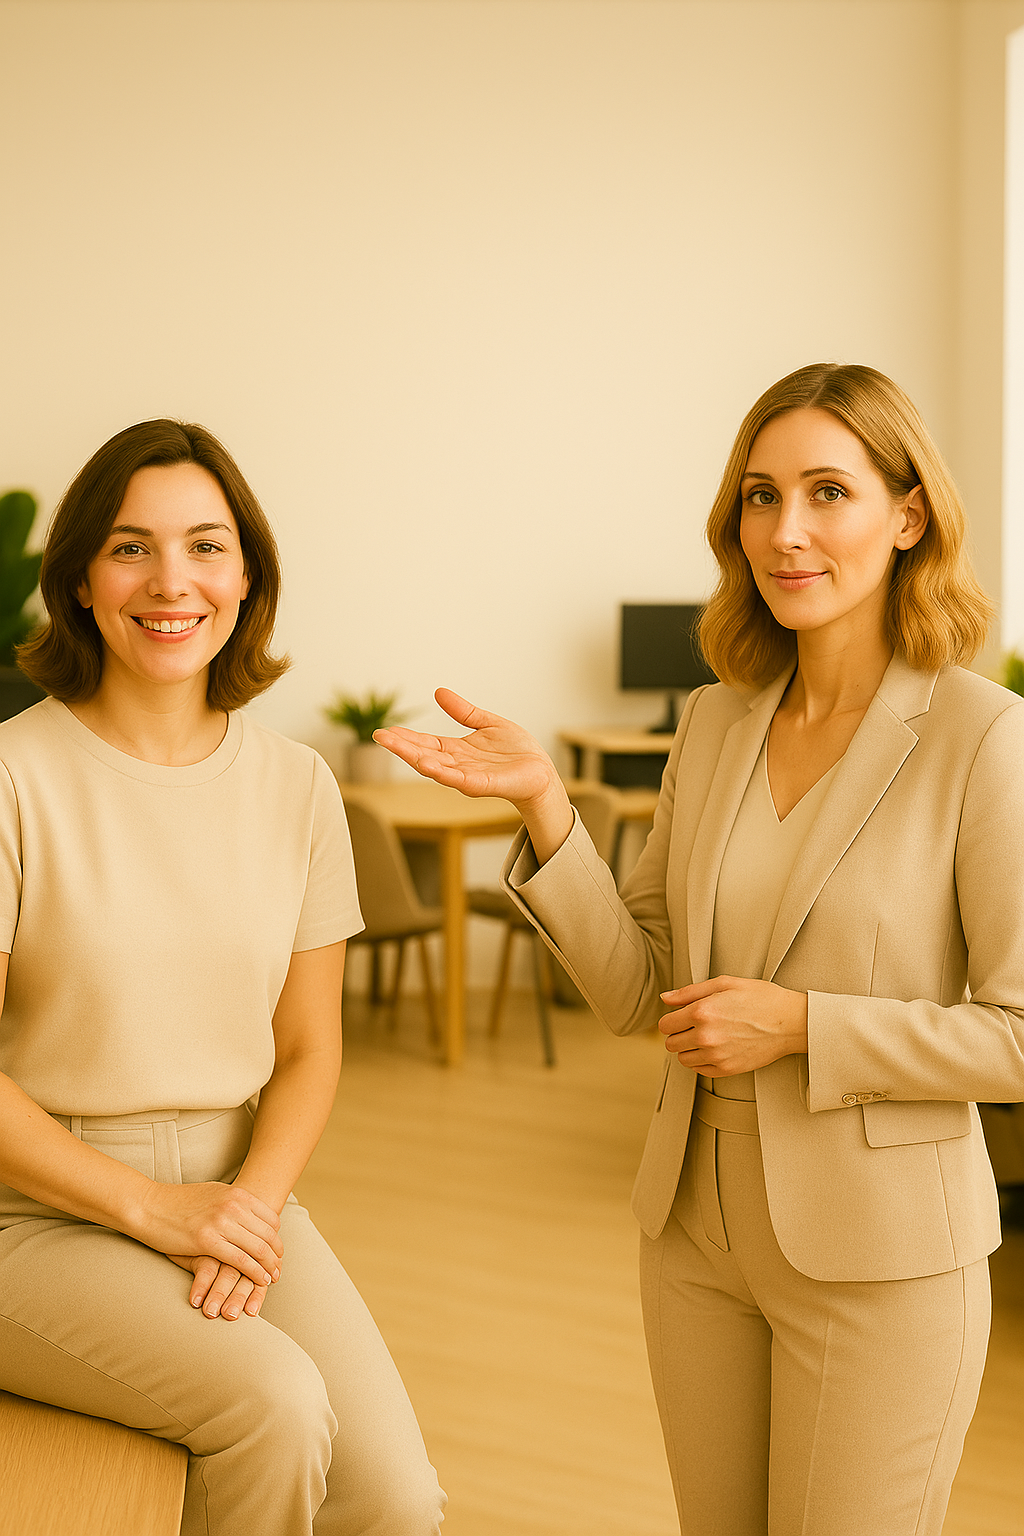
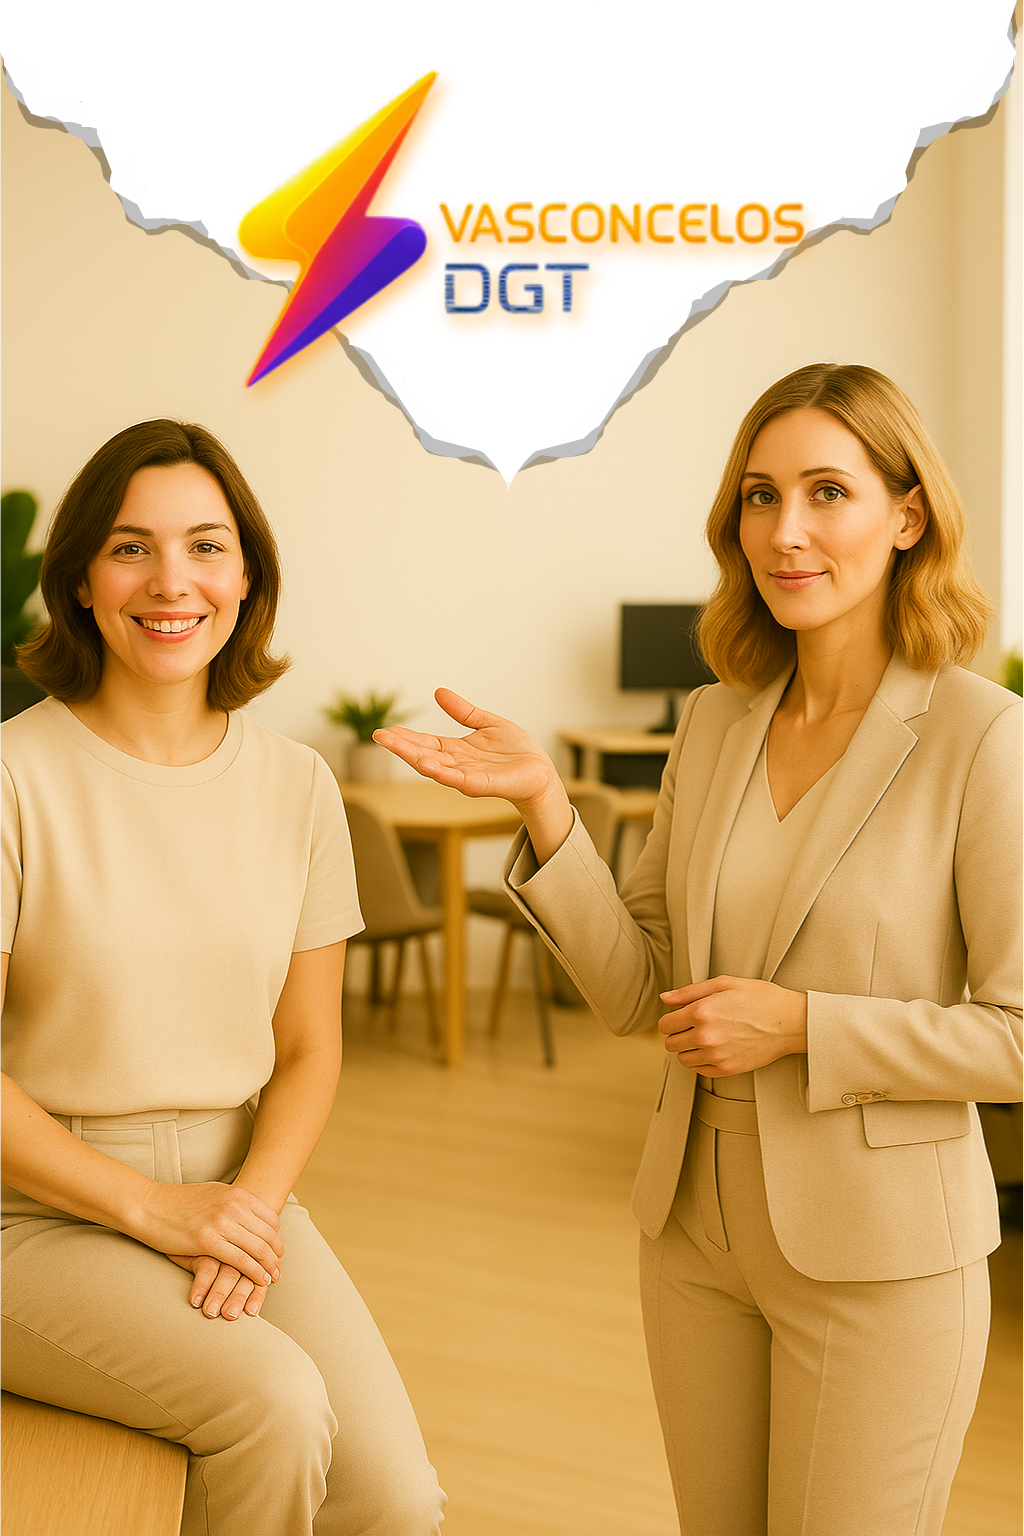
finalizando estetica, add imgs e otimizando texto. fim v1, aguardando aprovação

diff --git a/index.html b/index.html
@@ -12,7 +12,7 @@
   <meta property="og:url" content="https://your-domain.com" />
   <meta property="og:type" content="website" />
   <title>Guia Gratuito - Clareza e Leveza em 21 Dias</title>
-  <link rel="icon" type="image/png" href="https://your-domain.com/favicon.png" />
+  <link rel="icon" type="image/png" href="img/logo.png" />
   <link href="https://fonts.googleapis.com/css2?family=Inter:wght@400;600;700&family=Playfair+Display:wght@500;600;700&display=swap" rel="stylesheet" />
   <link href="https://unpkg.com/aos@2.3.1/dist/aos.css" rel="stylesheet" />
   <script src="https://code.iconify.design/iconify-icon/1.0.8/iconify-icon.min.js" defer></script>
@@ -32,18 +32,23 @@
     }
 
     /* Hero Section */
-    .hero-section {
-      background: linear-gradient(135deg, #667eea 0%, #764ba2 100%);
-      min-height: 100vh;
-      display: flex;
-      flex-direction: column;
-      justify-content: center;
-      align-items: center;
-      text-align: center;
-      color: white;
-      padding: 2rem;
-      position: relative;
-    }
+.hero-section {
+  background-image: url('img/cap.png'); 
+  background-size: cover; /* Faz a imagem preencher toda a área */
+  background-position: center; /* Centraliza a imagem */
+  background-repeat: no-repeat; /* Evita repetições */
+  min-height: 100vh;
+  width: 100vw; /* Garante que ocupe toda a largura da tela */
+  display: flex;
+  flex-direction: column;
+  justify-content: flex-end;
+  align-items: center;
+  text-align: center;
+  color: white;
+  padding: 2rem;
+  position: relative;
+}
+
 
     .hero-content h1 {
       font-family: 'Playfair Display', serif;
@@ -60,7 +65,7 @@
     }
 
     .cta-button {
-      background: linear-gradient(45deg, #ff6b6b, #ee5a24);
+      background: linear-gradient(45deg, #fa9f08, #ee5a24);
       color: white;
       border: none;
       padding: 1rem 2rem;
@@ -135,13 +140,15 @@
     }
 
     .urgency-note {
+      
       background: #fff3cd;
       border: 1px solid #ffeaa7;
       border-radius: 8px;
       padding: 1rem;
-      margin-bottom: 2rem;
+      margin-bottom: 1rem;
       display: flex;
       align-items: center;
+      justify-content: center;
       gap: 0.5rem;
       color: #856404;
     }
@@ -222,7 +229,7 @@
     }
 
     .highlight {
-      color: #ff6b6b;
+      color: #fa9f08;
       font-weight: 700;
     }
 
@@ -363,7 +370,7 @@
     .benefit-card iconify-icon {
       font-size: 3rem;
       margin-bottom: 1rem;
-      color: #ff6b6b;
+      color: #fa9f08;
     }
 
     .benefit-card p {
@@ -582,7 +589,7 @@
 
     .guarantee-card iconify-icon, .bonus-card iconify-icon {
       font-size: 3rem;
-      color: #ff6b6b;
+      color: #fa9f08;
       margin-bottom: 1rem;
     }
 
@@ -655,7 +662,7 @@
 
     .countdown {
       font-size: 1.2rem;
-      color: #ff6b6b;
+      color: #fa9f08;
       margin-bottom: 1rem;
       display: flex;
       align-items: center;
@@ -801,7 +808,7 @@
       bottom: 0;
       left: 0;
       right: 0;
-      background: linear-gradient(45deg, #ff6b6b, #ee5a24);
+      background: linear-gradient(45deg, #fa9f08, #ee5a24);
       color: white;
       padding: 1rem;
       display: none;
@@ -826,7 +833,7 @@
       position: fixed;
       top: 20px;
       right: 20px;
-      background: #ff6b6b;
+      background: #fa9f08;
       color: white;
       padding: 0.5rem 1rem;
       border-radius: 20px;
@@ -914,36 +921,34 @@
 </head>
 
 <body>
-  <!-- Hero Section -->
-  <section class="hero-section" role="banner" id="hero-section" data-aos="fade-up">
-    <div class="hero-content">
-      <h1>"Em 21 dias, ajudei 3.215 mulheres a recuperarem autoestima e energia."</h1>
-      <p>Descubra como em apenas 5 minutos por dia.</p>
-      <button class="cta-button" aria-label="Baixar Guia Agora" onclick="scrollToForm()">
-        <iconify-icon icon="lucide:download"></iconify-icon>
-        Baixar Guia Agora
-      </button>
-      <span class="delivery-note">Envio imediato no seu e-mail</span>
-    </div>
-    <div class="scroll-down" onclick="scrollToSection('form-section')">
-      <iconify-icon icon="lucide:chevron-down"></iconify-icon>
-      <p>Rolar para baixo</p>
-    </div>
-  </section>
+ <!-- Hero Section -->
+<section class="hero-section" role="banner" id="hero-section" data-aos="fade-up" style="margin-bottom: 0;">
+  <div class="hero-content">
+    <h1>Você merece dias mais produtivos e leves. Que tal começar agora?</h1>
+    <button class="cta-button" aria-label="Baixar Guia Agora" onclick="scrollToForm()">
+      <iconify-icon icon="lucide:download"></iconify-icon>
+      Baixar Guia Agora
+    </button>
+    <span class="delivery-note">Envio imediato no seu e-mail</span>
+  </div>
+  
+</section>
+
+<!-- Separador SVG -->
+
+ 
+
 
   <!-- Separator SVG -->
-  <svg class="section-divider" viewBox="0 0 1440 100" preserveAspectRatio="none">
-    <path fill="#FFF" d="M0,100 C360,0 1080,0 1440,100 L1440,100 L0,100 Z"></path>
-  </svg>
+
 
   <!-- Form Section -->
   <section class="form-section" role="region" aria-labelledby="form-heading" id="form-section" data-aos="fade-up-right">
     <div class="form-wrapper">
-      <h2>5 minutos por dia. 21 dias. Uma nova versão sua.</h2>
+      <h2>Descubra o primeiro passo para transformar seus dias.</h2>
       <p>Preencha o formulário abaixo e receba o guia gratuito diretamente no seu e-mail.</p>
       <div class="urgency-note">
-        <iconify-icon icon="lucide:alert-triangle"></iconify-icon>
-        <p>⚠ Esse formulário ficará disponível apenas nas próximas 48h.</p>
+        <span>⚠ Esse formulário disponível apenas nas próximas 48h.</span>
       </div>
       
       <!-- Mini FAQ -->
@@ -952,9 +957,11 @@
         <div class="mini-faq-item">
           <p><strong>É gratuito?</strong> Sim, 100% gratuito!</p>
         </div>
+        <hr>
         <div class="mini-faq-item">
           <p><strong>Quanto tempo leva?</strong> Apenas 5 minutos por dia.</p>
         </div>
+         <hr>
         <div class="mini-faq-item">
           <p><strong>Funciona pra mim?</strong> Sim, mesmo com rotina agitada!</p>
         </div>
@@ -962,6 +969,7 @@
       
       <form>
         <input type="text" id="form-name" placeholder="Seu Nome" required aria-label="Seu Nome" />
+        <input type="text" id="form-phone" placeholder="Seu Telefone" required aria-label="Seu telefone" />
         <input type="email" id="form-email" placeholder="Seu E-mail" required aria-label="Seu E-mail" />
         <button type="submit" onclick="openModal()">Quero Meu Guia</button>
       </form>
@@ -976,10 +984,10 @@
   <!-- Main Title Section -->
   <section class="main-title-section" role="banner" id="main-title-section" data-aos="fade-up">
     <h1>
-      Se você não fizer por você,
-      <span class="highlight">quem fará?</span>
+      Uma prática simples que cabe na sua rotina e que contribui pra sua 
+      <span class="highlight">produtividade com clareza e leveza.</span>
     </h1>
-    <p>A clareza que você procura tá em ações simples. Comece hoje com nosso guia gratuito.</p>
+    <p>A clareza que você procura. Hoje com nosso guia gratuito.</p>
     <button class="cta-button" aria-label="Baixe o guia gratuito" onclick="openModal()">
       <iconify-icon icon="lucide:download"></iconify-icon>
       Quero o Guia Gratuito
@@ -998,8 +1006,6 @@
       <h2 id="about-heading">Sobre Nossa Metodologia</h2>
       <p>Lorem ipsum dolor sit amet, consectetur adipiscing elit. Sed do eiusmod tempor incididunt ut labore et dolore magna aliqua. Ut enim ad minim veniam, quis nostrud exercitation ullamco laboris nisi ut aliquip ex ea commodo consequat.</p>
       <p>Duis aute irure dolor in reprehenderit in voluptate velit esse cillum dolore eu fugiat nulla pariatur. Excepteur sint occaecat cupidatat non proident, sunt in culpa qui officia deserunt mollit anim id est laborum.</p>
-      <p>Sed ut perspiciatis unde omnis iste natus error sit voluptatem accusantium doloremque laudantium, totam rem aperiam, eaque ipsa quae ab illo inventore veritatis et quasi architecto beatae vitae dicta sunt explicabo.</p>
-      <p>Nemo enim ipsam voluptatem quia voluptas sit aspernatur aut odit aut fugit, sed quia consequuntur magni dolores eos qui ratione voluptatem sequi nesciunt.</p>
     </div>
   </section>
 
@@ -1013,29 +1019,28 @@
     <h2 id="testimonials-heading">O que nossas alunas dizem</h2>
     <div class="testimonials-grid">
       <div class="testimonial-card" data-aos="fade-up" data-aos-delay="100">
-        <img src="/placeholder.svg?height=80&width=80" alt="Foto de Ana" />
+        <img src="https://images.pexels.com/photos/1130626/pexels-photo-1130626.jpeg?auto=compress&cs=tinysrgb&dpr=1&w=500" alt="Foto de Ana" />
         <p>"Consegui organizar minha rotina e me sinto mais confiante em apenas 21 dias!"</p>
         <p class="name">Ana Silva, São Paulo</p>
         <div class="proof">
-          <img src="/placeholder.svg?height=40&width=40" alt="Comprovante" />
+         
           <span class="verified">✔ Validado</span>
         </div>
       </div>
       <div class="testimonial-card" data-aos="fade-up" data-aos-delay="200">
-        <img src="/placeholder.svg?height=80&width=80" alt="Foto de Maria" />
+        <img src="https://encrypted-tbn0.gstatic.com/images?q=tbn:ANd9GcQg5oL7K83xXWYKqIx_tHaM26AZ-j97k0LvRg&s" alt="Foto de Maria" />
         <p>"O guia mudou minha energia diária. Agora acordo com mais disposição!"</p>
         <p class="name">Maria Oliveira, Rio de Janeiro</p>
         <div class="proof">
-          <img src="/placeholder.svg?height=40&width=40" alt="Comprovante" />
           <span class="verified">✔ Validado</span>
         </div>
       </div>
       <div class="testimonial-card" data-aos="fade-up" data-aos-delay="300">
-        <img src="/placeholder.svg?height=80&width=80" alt="Foto de Joana" />
+        <img src="https://st.depositphotos.com/3821041/55680/i/450/depositphotos_556805846-stock-photo-brunette-teenager-girl-model-posing.jpg" alt="Foto de Maria" />
+
         <p>"Nunca imaginei que 5 minutos por dia fariam tanta diferença na minha vida."</p>
         <p class="name">Joana Costa, Belo Horizonte</p>
         <div class="proof">
-          <img src="/placeholder.svg?height=40&width=40" alt="Comprovante" />
           <span class="verified">✔ Validado</span>
         </div>
       </div>
@@ -1087,17 +1092,16 @@
   </svg>
 
   <!-- Success Stories Section -->
-  <section class="success-stories-section" role="region" aria-labelledby="success-stories-heading" data-aos="fade-up-right">
-    <h2 id="success-stories-heading">Histórias de Sucesso</h2>
-    <div class="success-story-card">
-      <img src="/placeholder.svg?height=150&width=150" alt="Foto de uma aluna" />
-      <div class="success-story-content">
-        <h3>Conheça Ana, que transformou sua rotina</h3>
-        <p>Em 21 dias, Ana encontrou equilíbrio e energia para viver com mais leveza.</p>
-        <p class="name">Ana, 45 anos</p>
-      </div>
-    </div>
-  </section>
+<!-- Success Stories Section -->
+<section class="success-stories-section" role="region" aria-labelledby="success-stories-heading" data-aos="fade-up-right" 
+         style="background-color: #f9f9f9; padding: 40px 20px; text-align: center; border-radius: 12px; margin: 40px auto; max-width: 700px;">
+  <h2 id="success-stories-heading" style="font-size: 28px; color: #333; margin-bottom: 16px;">Transformações Reais</h2>
+  <p style="font-size: 20px; font-weight: 500; color: #555; line-height: 1.5;">
+    "Não é mágica. É consistência. Em poucos dias, você começa a sentir a diferença. E ela vem de dentro."
+  </p>
+</section>
+
+
 
   <!-- Separator SVG -->
   <svg class="section-divider" viewBox="0 0 1440 100" preserveAspectRatio="none">
@@ -1148,23 +1152,27 @@
   </svg>
 
   <!-- Guarantee and Bonus Section -->
-  <section class="guarantee-bonus-section" role="region" aria-labelledby="guarantee-bonus-heading" data-aos="zoom-in">
-    <h2 id="guarantee-bonus-heading">Garantia e Bônus Exclusivos</h2>
-    <div class="guarantee-bonus-grid">
-      <div class="guarantee-card" data-aos="fade-up" data-aos-delay="100">
-        <iconify-icon icon="lucide:shield"></iconify-icon>
-        <p><strong>Garantia de Satisfação 30 Dias</strong><br>Se não gostar, devolvemos seu investimento.</p>
+  <section class="benefits-section" role="region" aria-labelledby="benefits-heading" data-aos="zoom-in">
+    <h2 id="benefits-heading">Benefícios</h2>
+    <div class="benefits-grid">
+      <div class="benefit-card" data-aos="fade-up" data-aos-delay="100">
+        <iconify-icon icon="lucide:zap"></iconify-icon>
+        <p><strong>5 minutos por dia</strong><br>Métodos rápidos para rotinas intensas</p>
       </div>
-      <div class="bonus-card" data-aos="fade-up" data-aos-delay="200">
-        <iconify-icon icon="lucide:check-square"></iconify-icon>
-        <p><strong>Checklist Exclusivo</strong><br>Um passo a passo prático para o dia a dia.</p>
+      <div class="benefit-card" data-aos="fade-up" data-aos-delay="200">
+        <iconify-icon icon="lucide:sparkles"></iconify-icon>
+        <p><strong>Clareza mental</strong><br>Reduza a névoa e ganhe foco</p>
       </div>
-      <div class="bonus-card" data-aos="fade-up" data-aos-delay="300">
-        <iconify-icon icon="lucide:message-circle"></iconify-icon>
-        <p><strong>Grupo no Telegram</strong><br>Suporte e motivação em uma comunidade exclusiva.</p>
+      <div class="benefit-card" data-aos="fade-up" data-aos-delay="300">
+        <iconify-icon icon="lucide:heart"></iconify-icon>
+        <p><strong>Mais autoestima</strong><br>Exercícios para sua confiança</p>
+      </div>
+      <div class="benefit-card" data-aos="fade-up" data-aos-delay="400">
+        <iconify-icon icon="lucide:clock"></iconify-icon>
+        <p><strong>Produtividade real</strong><br>Adaptado ao seu ritmo</p>
       </div>
     </div>
-  </section>
+</section>
 
   <!-- Separator SVG -->
   <svg class="section-divider" viewBox="0 0 1440 100" preserveAspectRatio="none">
@@ -1272,11 +1280,6 @@
     <span class="countdown-timer" id="countdown-timer">02:00:00:00</span>
   </div>
 
-  <!-- Limited Vagas Badge -->
-  <div class="limited-vagas">Últimas 5 vagas para a turma de julho</div>
-
-  <!-- Students Counter -->
-  <div class="students-counter">+3.215 mulheres transformadas</div>
 
   <!-- Footer -->
   <footer role="contentinfo" data-aos="fade-up">
@@ -1288,7 +1291,7 @@
       <br>
       <a href="#" aria-label="Política de Privacidade"><iconify-icon icon="lucide:shield-check"></iconify-icon>Política de Privacidade</a> |
       <a href="#about-heading" aria-label="Sobre Nós"><iconify-icon icon="lucide:user-round"></iconify-icon>Sobre</a> |
-      <a href="mailto:contato@exemplo.com" aria-label="Contato"><iconify-icon icon="lucide:mail"></iconify-icon>Contato: contato@exemplo.com</a> |
+      <a href="mailto:contato@exemplo.com" aria-label="Contato"><iconify-icon icon="lucide:mail"></iconify-icon>Contato: vasconcelosdgt@gmail.com</a> |
       <a href="https://instagram.com" aria-label="Instagram"><iconify-icon icon="lucide:instagram"></iconify-icon>Instagram</a> |
       <a href="https://facebook.com" aria-label="Facebook"><iconify-icon icon="lucide:facebook"></iconify-icon>Facebook</a>
       <br>
